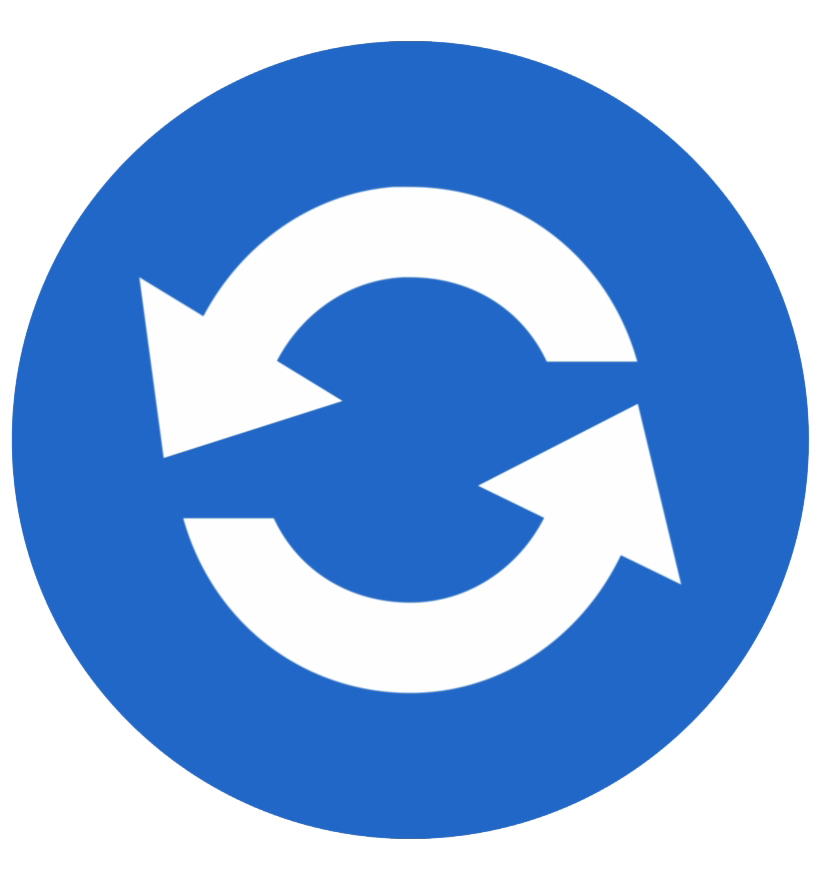
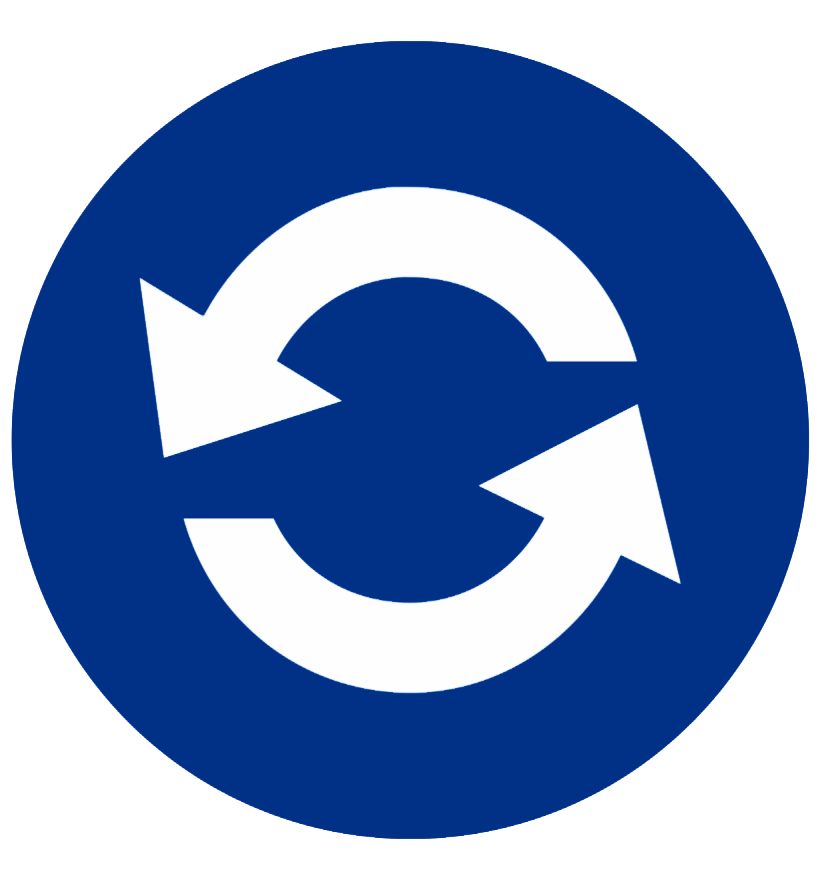
Graphical imporvement

diff --git a/FRONT/late-checker/src/Components/LastArrivalList/LastArrivalItems.jsx b/FRONT/late-checker/src/Components/LastArrivalList/LastArrivalItems.jsx
@@ -4,12 +4,15 @@ import styled from 'styled-components'
 const LastArrivalItems = props => {
     // * ---------- STYLES ---------- *
     const OneResult = styled.div`
-        background: #282c34;
-        color: #fff;
+        //background: #282c34;
+        //color: #fff;
         padding: 15px;
-        border-radius: 6px;
-        margin: 15px 0;
+        //border-radius: 6px;
+        margin: 30px 0;
         min-width: 80%;
+        -moz-box-shadow:    3px 3px 8px 3px #ccc;
+        -webkit-box-shadow: 3px 3px 8px 3px #ccc;
+        box-shadow:         3px 3px 8px 3px #ccc;
 `
     const ListItem = styled.li`
         list-style: none;

diff --git a/FRONT/late-checker/src/Components/LastArrivalList/LastArrivalList.jsx b/FRONT/late-checker/src/Components/LastArrivalList/LastArrivalList.jsx
@@ -59,7 +59,7 @@ const LastArrivalList = () => {
     return (
         <LastArrivalSection className='some-space'>
             <h2>Last arrivals</h2>
-            <ReloadImgTag src={ realodImg } alt="reload"/>
+            <ReloadImgTag onClick={ () => setIsListIsLoad(false) } src={ realodImg } alt="reload"/>
                     <AnswerDiv>
                         {/* Show user's data if user found */}
                         { ( employeeList && !employeeList['error'] ) ? <LastEntriestAnswer answer={ employeeList } /> : null }
